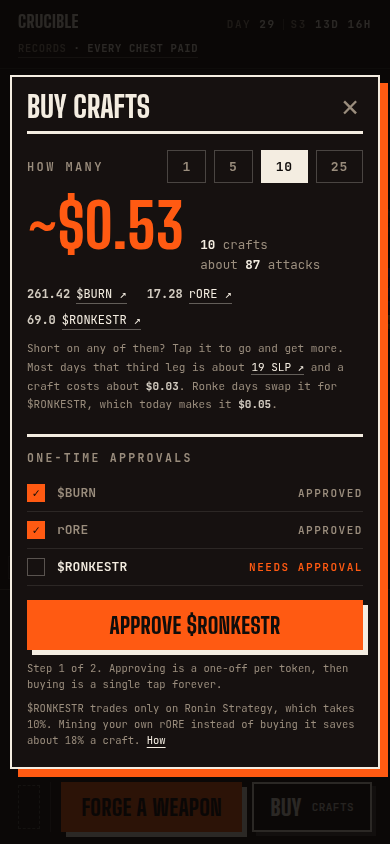
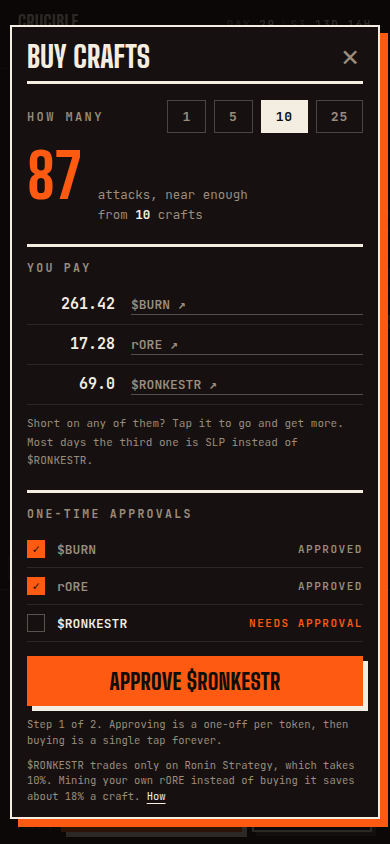
arena: tokens-only craft pricing

diff --git a/mockups/arena/arena-d-synthesis.html b/mockups/arena/arena-d-synthesis.html
@@ -402,23 +402,28 @@ button{font:inherit;color:inherit;background:none;border:0;cursor:pointer}
 .qty-presets button.on{background:var(--bone);color:var(--ink);border-color:var(--bone)}
 
 .buy-price{display:flex;align-items:baseline;gap:16px;margin-top:18px}
-.buy-usd{
+.buy-got{
   font-family:var(--disp);font-weight:800;font-size:60px;line-height:.86;
   color:var(--ember);font-variant-numeric:tabular-nums;
 }
 .buy-for{font-family:var(--mono);font-size:12.5px;line-height:1.55;color:var(--muted)}
 .buy-for b{color:var(--bone);font-weight:700}
-.buy-legs{
-  margin-top:12px;display:flex;flex-wrap:wrap;gap:8px 20px;
-  font-family:var(--mono);font-size:12px;color:var(--muted);
+
+/* the tokens are the price now, so they get a real column rather than a
+   run-on line: amount right-aligned in a fixed gutter so three different
+   magnitudes still scan as one list */
+.buy-legs{list-style:none;margin-top:10px}
+.buy-legs li{
+  display:grid;grid-template-columns:auto 1fr;gap:16px;align-items:baseline;
+  padding:9px 0;border-bottom:1px solid rgba(244,237,225,.1);
+  font-family:var(--mono);font-size:15px;font-weight:700;
 }
-.buy-legs .leg{display:flex;align-items:baseline;gap:6px}
-.buy-legs b{color:rgba(244,237,225,.85);font-weight:700}
+.buy-legs .amt{color:var(--bone);text-align:right;min-width:88px;font-variant-numeric:tabular-nums}
 .buy-legs a{
-  color:var(--bone);text-decoration:none;
-  border-bottom:1px solid rgba(244,237,225,.35);padding-bottom:1px;
+  color:var(--muted);text-decoration:none;font-size:13px;font-weight:600;
+  border-bottom:1px solid rgba(244,237,225,.28);padding-bottom:1px;
 }
-.buy-legs a:hover{border-color:var(--bone);color:#fff}
+.buy-legs a:hover{border-color:var(--bone);color:var(--bone)}
 .buy-get{
   margin-top:9px;font-family:var(--mono);font-size:11px;line-height:1.7;color:var(--muted);
 }
@@ -710,7 +715,7 @@ body[data-state="weapon"] .only-forge{display:none}
       <span>All on</span><b class="max">&times;1.73</b>
     </div>
 
-    <button class="btn btn-primary sheet-go" data-close>Feed the Warden <small>6.9 $RONKESTR, about $0.03</small></button>
+    <button class="btn btn-primary sheet-go" data-close>Feed the Warden <small>6.9 $RONKESTR</small></button>
     <p class="sheet-fine">One offering left today. It only boosts attacks made after it lands.</p>
   </div>
 </div>
@@ -731,7 +736,7 @@ body[data-state="weapon"] .only-forge{display:none}
     <ul class="buffs">
       <li class="off">
         <span class="tag">Off</span><span class="nm">One more offering</span><span class="amt">+15%</span>
-        <p>6.9 $RONKESTR, about $0.03. Two of three used.</p>
+        <p>6.9 $RONKESTR. Two of three used.</p>
       </li>
       <li class="off">
         <span class="tag">Off</span><span class="nm">Hold 10 RON</span><span class="amt">+10%</span>
@@ -771,15 +776,19 @@ body[data-state="weapon"] .only-forge{display:none}
       </div>
     </div>
 
+    <!-- no dollar figure anywhere (operator, 2026-07-30). The tokens ARE the
+         price, so they carry the hierarchy the USD total used to. What you get
+         is denominated in attacks instead of money. -->
     <div class="buy-price">
-      <span class="buy-usd" id="buyUsd">~$0.30</span>
-      <span class="buy-for"><b id="buyN">10</b> crafts<br>about <b id="buySwings">87</b> attacks</span>
+      <span class="buy-got" id="buySwings">87</span>
+      <span class="buy-for">attacks, near enough<br>from <b id="buyN">10</b> crafts</span>
     </div>
-    <p class="buy-legs" id="buyLegs"></p>
+
+    <div class="steps-k">You pay</div>
+    <ul class="buy-legs" id="buyLegs"></ul>
     <p class="buy-get">
-      Short on any of them? Tap it to go and get more.<br>
-      Most days that third leg is about <a href="https://app.roninchain.com/swap?outputCurrency=0xa8754b9Fa15fc18BB59458815510E40a12cD2014" target="_blank" rel="noreferrer">19 SLP &#8599;</a>
-      and a craft costs about <b>$0.03</b>. Ronke days swap it for $RONKESTR, which today makes it <b>$0.05</b>.
+      Short on any of them? Tap it to go and get more.
+      Most days the third one is SLP instead of $RONKESTR.
     </p>
 
     <div class="steps-k">One-time approvals</div>
@@ -884,7 +893,7 @@ body[data-state="weapon"] .only-forge{display:none}
       <span class="st" id="stBank">Bank</span>
       <span class="chev">&rsaquo;</span>
       <span class="st" id="stChest">Chest</span>
-      <span class="price">about <b>$0.05</b> a craft today<span class="tokens">, in $BURN, rORE and $RONKESTR</span></span>
+      <span class="price">a craft costs <b>26.14</b> $BURN <span class="tokens">&middot; <b>1.73</b> rORE &middot; <b>6.9</b> $RONKESTR</span></span>
     </div>
 
     <div class="status only-weapon">
@@ -1038,35 +1047,36 @@ body[data-state="weapon"] .only-forge{display:none}
      the live LEG_TOKENS map sends $BURN to Katana, which routes through the taxed
      BURN/RON pair. burncoin.tech's own Trade $BURN runs the Zap (wBURN/USDC) and
      skips the 6.66% tax, so that is where a player should be sent. */
-  /* Live token prices from crucible-price-sync (2026-07-30): BURN $0.00038046,
-     rORE $0.005774, SLP $0.0005144, RONKESTR $0.004748. The USD total is DERIVED
-     from these rather than assumed, which is how the Ronke-day premium below
-     shows up instead of hiding behind a nominal "$0.03". */
+  /* Per-craft leg amounts, live from CrucibleForgeV2.quote() at legs v22.
+     NO dollar figure anywhere (operator, 2026-07-30): the tokens are the price.
+     ⚠ That decision hides a real premium rather than removing it. Priced at
+     2026-07-30 rates a Ronke-day craft is ~$0.053 against ~$0.030 on an SLP day,
+     because the $RONKESTR leg is pinned at 6.9 tokens and never re-pegged while
+     $BURN and rORE are held to a cent each. See the plan, "A craft does not cost
+     $0.03 on a Ronke day". */
   var LEGS = [
-    { sym:'$BURN', per:26.142272, dp:2, usd:0.00038046,
+    { sym:'$BURN', per:26.142272, dp:2,
       url:'https://burncoin.tech/dashboard', where:'burncoin.tech, no 6.66% tax' },
-    { sym:'rORE', per:1.728455, dp:2, usd:0.005774,
+    { sym:'rORE', per:1.728455, dp:2,
       url:'https://app.roninchain.com/swap?outputCurrency=0x56418E06A569ce559b457F533A4f8D9D51a27cA8',
       where:'Katana' },
     /* the swappable leg. SLP on most days, $RONKESTR on Ronke-Warden days, set by
        the keeper with setLeg. The client never hardcodes it: production reads the
        legs from quote() on-chain, so a swap needs no deploy. */
-    { sym:'$RONKESTR', per:6.9, dp:1, usd:0.004748,
+    { sym:'$RONKESTR', per:6.9, dp:1,
       url:'https://roninstrategy.fun/strategy/0x404533a09bf281199ce6b0ef60b7eff7123ff8dc',
       where:'Ronin Strategy, 10% fee' }
   ];
-  var USD_PER_CRAFT = LEGS.reduce(function(a,l){ return a + l.per * l.usd; }, 0);
   var SWINGS_PER_CRAFT = 8.7;            // measured: players push well past the safe floor
   var buyN = 10, approved = false;
 
   function renderBuy(){
     $('buyN').textContent = buyN;
-    $('buyUsd').textContent = '~$' + (buyN * USD_PER_CRAFT).toFixed(2);
     $('buySwings').textContent = Math.round(buyN * SWINGS_PER_CRAFT);
     $('buyLegs').innerHTML = LEGS.map(function(l){
-      return '<span class="leg"><b>' + (l.per * buyN).toFixed(l.dp) + '</b> ' +
+      return '<li><span class="amt">' + (l.per * buyN).toFixed(l.dp) + '</span>' +
         '<a href="' + l.url + '" target="_blank" rel="noreferrer" title="Get ' + l.sym +
-        ' on ' + l.where + '">' + l.sym + ' &#8599;</a></span>';
+        ' on ' + l.where + '">' + l.sym + ' &#8599;</a></li>';
     }).join('');
     $('buyGo').textContent = approved ? ('Buy ' + buyN + ' crafts') : 'Approve $RONKESTR';
     $('appr').lastElementChild.className = approved ? 'done' : 'todo';

diff --git a/mockups/arena/PLAN.md b/mockups/arena/PLAN.md
@@ -467,6 +467,25 @@ $RONKESTR leg like the other two, accept the premium as a partner-day quirk and 
 lower the pinned amount. Worth noting it makes Ronke days, the ones aimed at onboarding a
 new community, the most expensive days to try the game.
 
+### Craft cost is now shown in tokens only (operator, 2026-07-30)
+
+Every dollar figure attached to *paying* is gone: the drawer headline, the rail, How to
+play, and the offering buttons. What you get is denominated in **attacks** instead
+(`87 attacks, near enough, from 10 crafts`), and the three token amounts become the price
+block under a `You pay` header, each one linked to where you get it.
+
+Prize figures are untouched and should stay: `$3.82`, `$0.62`, `$1.39` are **USDC**, the
+actual payout currency, not an estimate of one.
+
+⚠ **On the record, since this was raised and decided against:** the dollar figure was the
+single best-performing element in the red team. The no-wallet persona called `$0.03` "the
+one number on this page I understand instantly", and the four-word reader named
+`FORGE A WEAPON · ABOUT $0.03` one of only two things that worked on them. Token amounts
+alone do not tell a newcomer whether a craft costs cents or dollars.
+The operator's call, made with that evidence in hand. It also means the Ronke-day premium
+above is now invisible to players rather than merely unremarked, which raises rather than
+lowers the value of fixing the pinned leg.
+
 **Not modelled, and worth deciding before build:** what happens when a player holds none of
 the three tokens at all. Today that is an off-site errand across two venues, and no amount
 of drawer design fixes it. A single-token or RON-denominated purchase path would, and that
